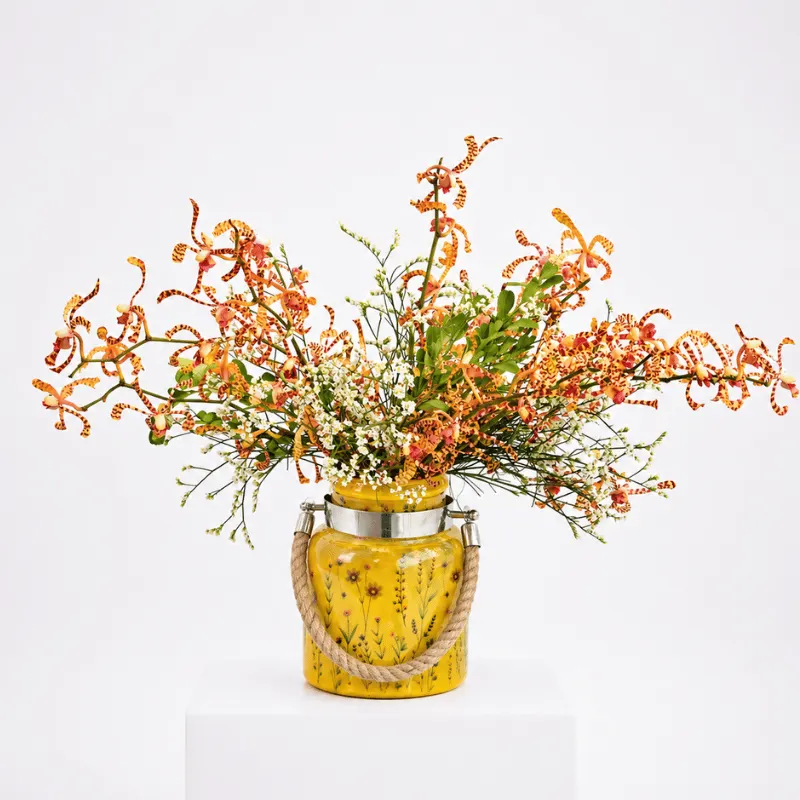
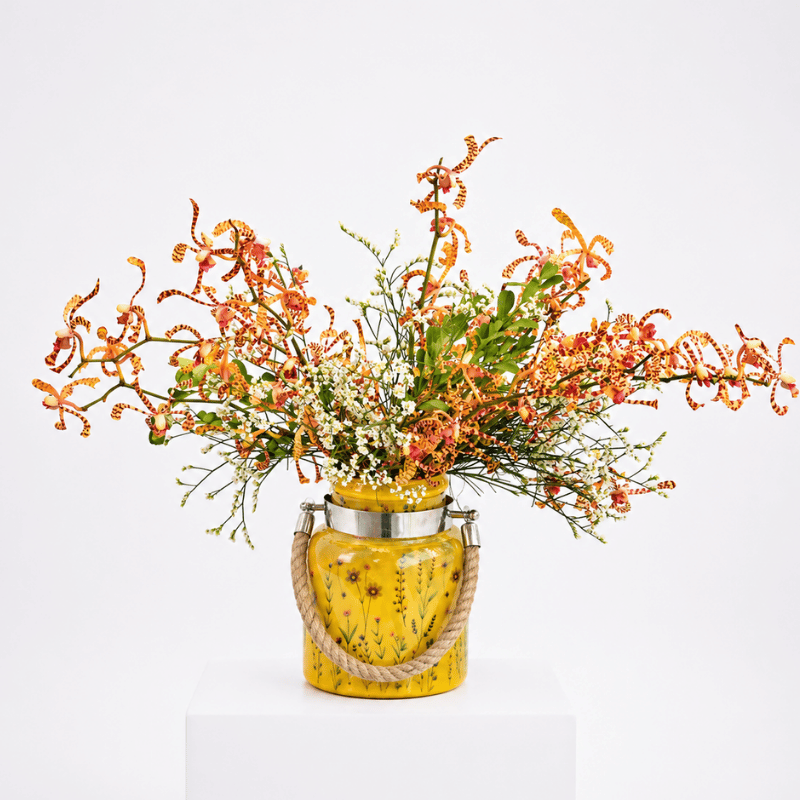
Small changes

diff --git a/src/pages/Home.jsx b/src/pages/Home.jsx
@@ -236,32 +236,6 @@ const Home = () => {
         </SwiperSlide>
       </Swiper>
 
-      {/* Categories */}
-      {/* <div className="w-full flex flex-col gap-4 xl:gap-8">
-        <h2 className="text-2xl xl:text-4xl font-semibold leading-none">
-          Are You Looking for
-        </h2>
-        <div className="w-full grid grid-cols-3 gap-4 xl:gap-8">
-          {catData.map((cat, index) => (
-            <Link
-              key={index}
-              to={cat.route}
-              className="w-full h-full flex flex-col items-center gap-2 xl:gap-4"
-            >
-              <img
-                src={cat.image}
-                alt=""
-                loading="lazy"
-                className="w-full aspect-square rounded-md object-cover"
-              />
-              <span className="text-sm xl:text-2xl font-semibold text-center">
-                {cat.title}
-              </span>
-            </Link>
-          ))}
-        </div>
-      </div> */}
-
       {/* Special Event */}
       {/* <div className="w-full flex flex-col gap-4 xl:gap-8">
         <h2 className="text-2xl xl:text-4xl font-semibold leading-none flex gap-2 items-center">
@@ -387,41 +361,6 @@ const Home = () => {
         </div>
       </div>
 
-      {/* New Arrivals */}
-      {/* <div className="w-full flex flex-col gap-4 xl:gap-8">
-        <h2 className="text-2xl xl:text-4xl font-semibold leading-none">
-          New Arrivals
-        </h2>
-
-        <Swiper
-          spaceBetween={16}
-          slidesPerView={2}
-          breakpoints={{
-            640: {
-              slidesPerView: 2.5,
-            },
-            768: {
-              slidesPerView: 3.2,
-            },
-            1024: {
-              spaceBetween: 32,
-              slidesPerView: 4,
-            },
-          }}
-          modules={[Navigation]}
-          className="w-full"
-        >
-          {[...mainData]
-            .slice(-5)
-            .reverse()
-            .map((data, index) => (
-              <SwiperSlide key={index}>
-                <Card data={data} badge="New" />
-              </SwiperSlide>
-            ))}
-        </Swiper>
-      </div> */}
-
       {/* Choose Us */}
       <div className="w-full flex flex-col items-center gap-4 xl:gap-8">
         <h2 className="text-2xl xl:text-4xl font-semibold text-center leading-none">
@@ -435,9 +374,9 @@ const Home = () => {
         <div className="w-full xl:w-[80%] grid grid-cols-2 xl:grid-cols-4 gap-4 xl:gap-8">
           {/* Express */}
           <div className="p-4 xl:p-8 rounded-md flex flex-col items-center gap-2 xl:gap-4 bg-stone-100">
-            <i className="ri-e-bike-2-fill text-2xl xl:text-4xl text-stone-800"></i>
+            <i className="ri-calendar-view text-2xl xl:text-4xl text-stone-800"></i>
             <h4 className="xl:text-lg font-semibold text-center">
-              Free 3-4 Hours Express Delivery
+              Remember All Important Dates
             </h4>
           </div>
           {/* Voice notes */}

diff --git a/src/pages/Subscription.jsx b/src/pages/Subscription.jsx
@@ -1,0 +1,9 @@
+import React from 'react'
+
+const Subscription = () => {
+  return (
+    <div>Subscription</div>
+  )
+}
+
+export default Subscription